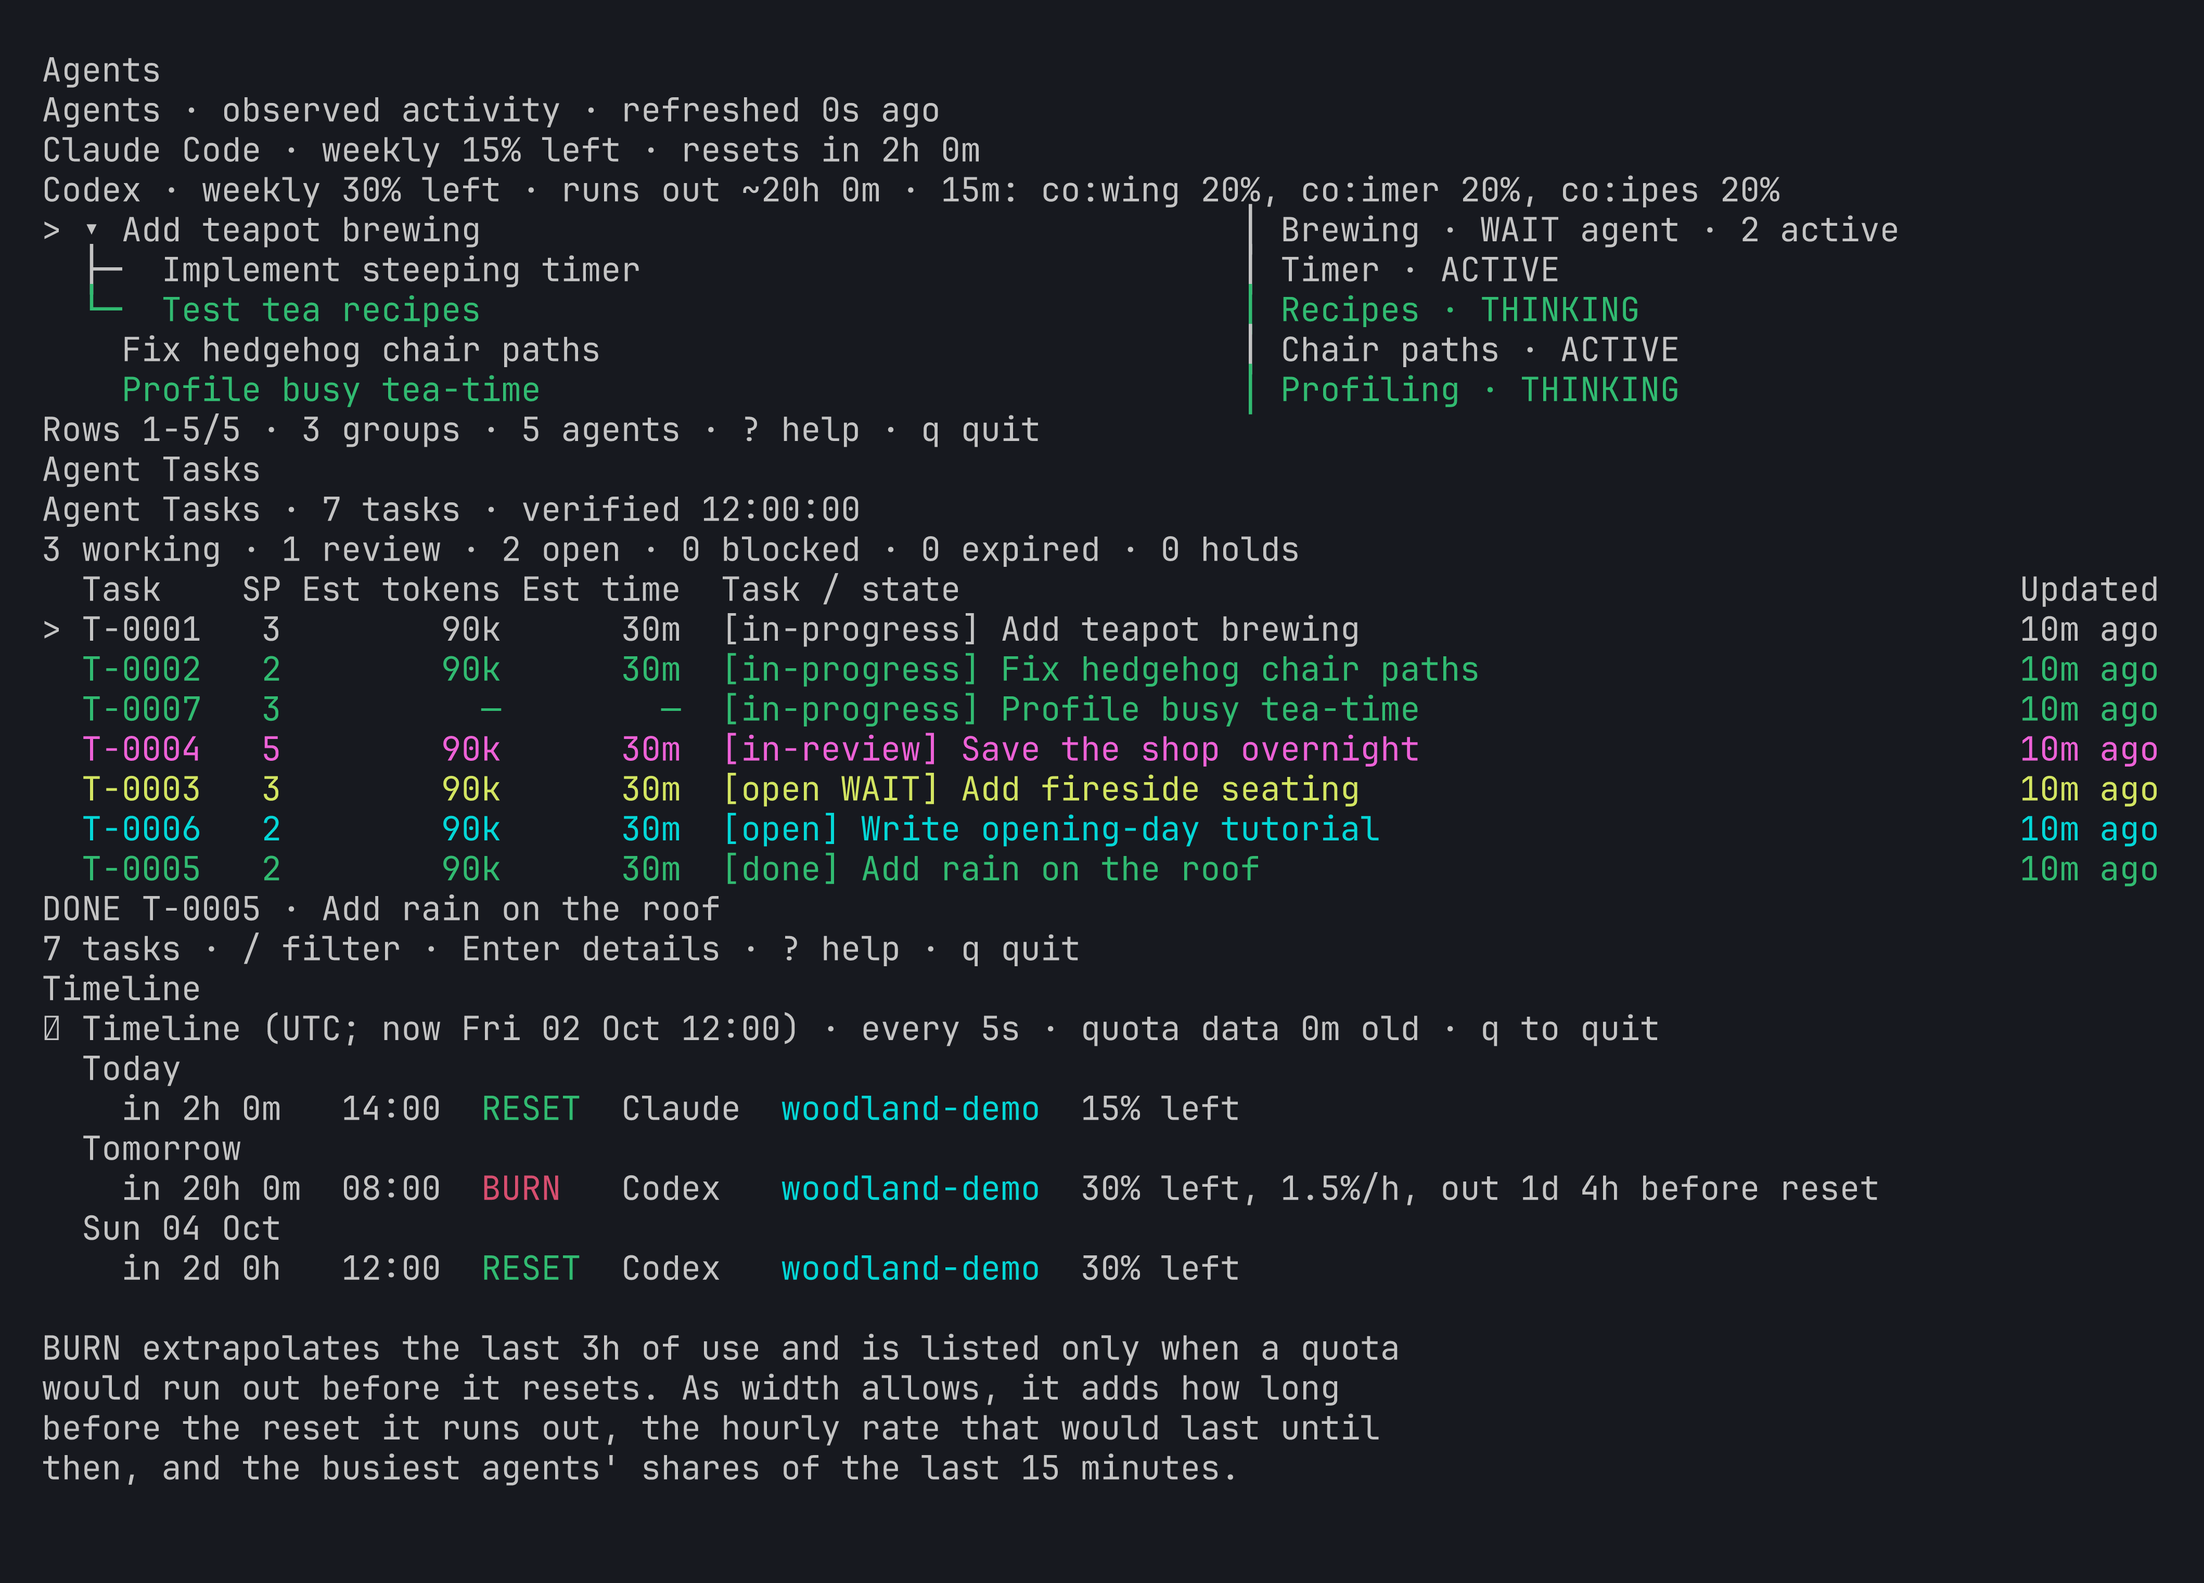
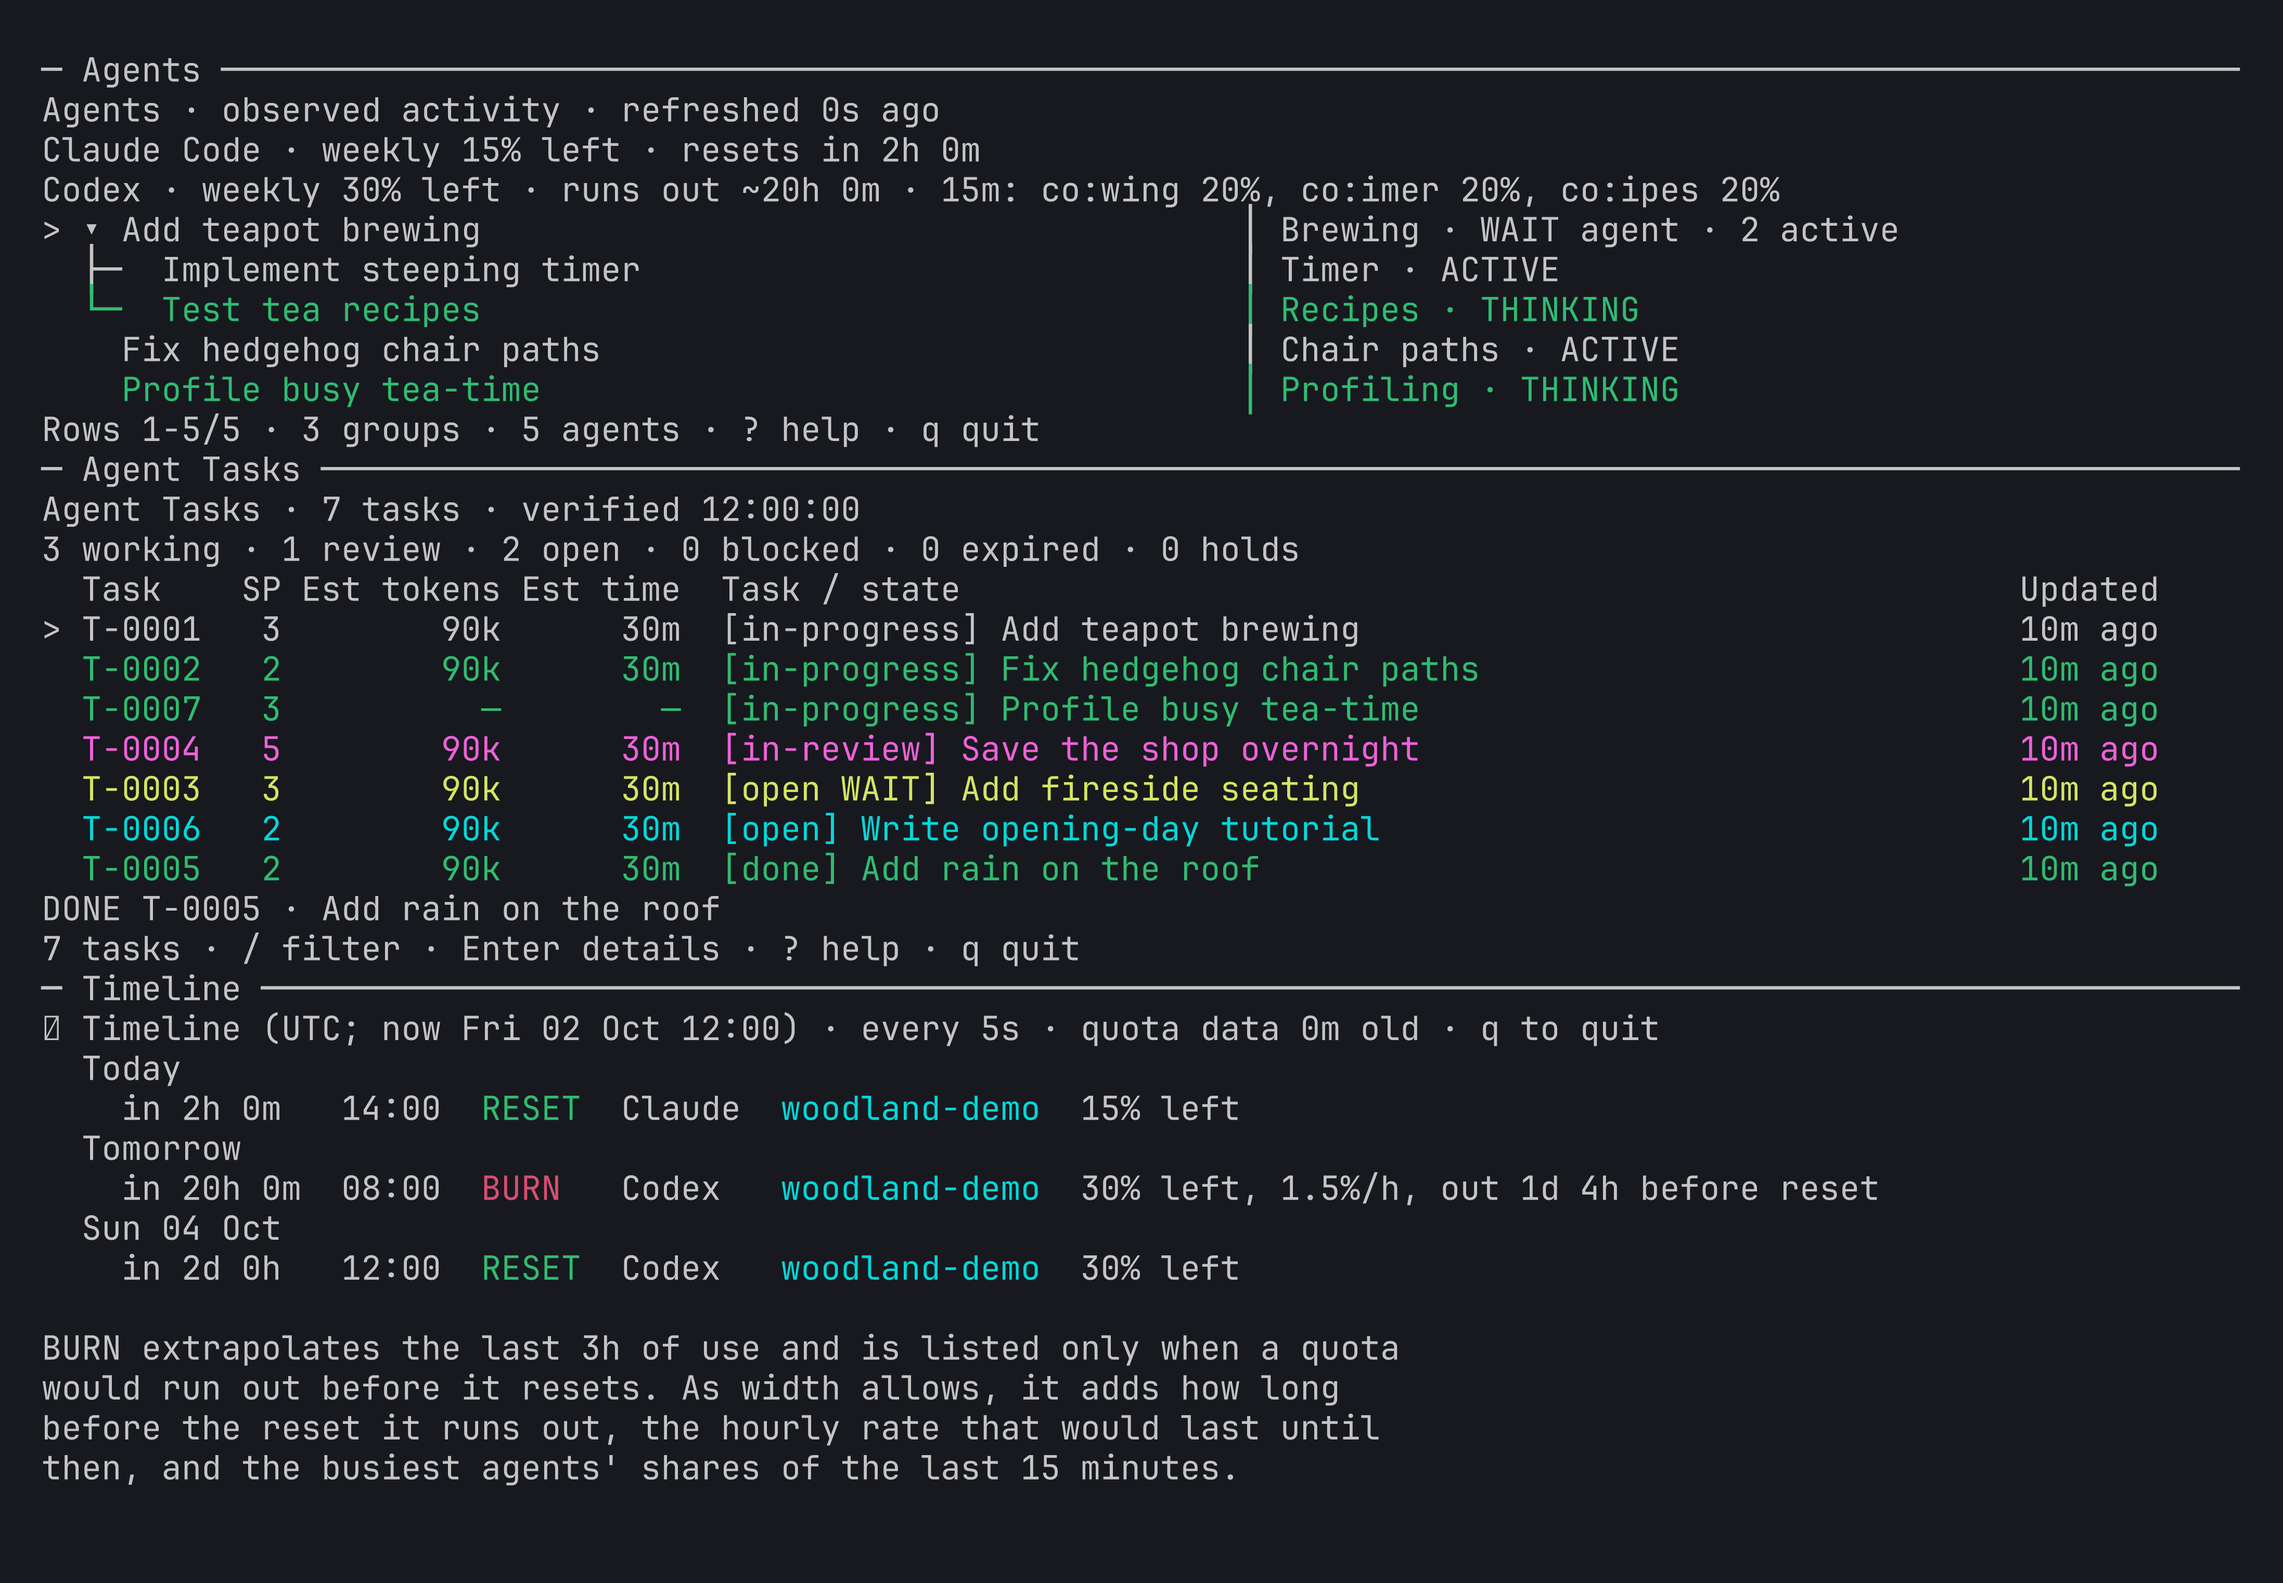
Separate dashboard apps with labelled pane dividers

diff --git a/docs/demo/run.py b/docs/demo/run.py
@@ -225,6 +225,15 @@ def main():
         env=env, stdout=subprocess.DEVNULL, stderr=subprocess.DEVNULL)
 
 
+def dashboard_capture(panes, width):
+  chunks = []
+  for title, text in panes:
+    label = '─ ' + title + ' '
+    border = label + '─' * max(0, width - len(label))
+    chunks.append('\x1b[1m' + border + '\x1b[0m\n' + text)
+  return ''.join(chunks).rstrip('\n') + '\n'
+
+
 def capture(run, output):
   output.mkdir(parents=True, exist_ok=True)
   panes = run('list-panes', '-t', 'demo:moss-and-mugs', '-F',
@@ -240,13 +249,14 @@ def capture(run, output):
     text = run('capture-pane', '-p', '-e', '-t', target).rstrip('\n') + '\n'
     (output / (name + '.ansi')).write_text(text)
     return text
-  # Capture production pane geometry and text; no independently drawn UI.
+  # Preserve pane text; labelled borders represent the tmux app boundaries.
+  width = int(run('display-message', '-p', '-t', agents, '#{pane_width}'))
   chunks = []
   for title in ('Agents', 'Agent Tasks', 'Timeline'):
-    chunks.append('\x1b[1m' + title + '\x1b[0m\n' +
+    chunks.append((title,
       save({'Agents':'agent-activity', 'Agent Tasks':'tasks',
-            'Timeline':'quota-timeline'}[title], mapping[title]))
-  (output / 'dashboard.ansi').write_text(''.join(chunks).rstrip('\n') + '\n')
+            'Timeline':'quota-timeline'}[title], mapping[title])))
+  (output / 'dashboard.ansi').write_text(dashboard_capture(chunks, width))
   # Real keys drive filtering, selection, and details.
   run('send-keys', '-t', tasks, '/', 'Save the shop overnight', 'Enter')
   time.sleep(.2)

diff --git a/tests/test_readme_demo.py b/tests/test_readme_demo.py
@@ -13,6 +13,20 @@ class DemoTest(unittest.TestCase):
     cls.demo = importlib.util.module_from_spec(SPEC)
     SPEC.loader.exec_module(cls.demo)
 
+  def test_dashboard_apps_have_full_width_labelled_boundaries(self):
+    text = self.demo.dashboard_capture([
+      ('Agents', 'agent body\n'),
+      ('Agent Tasks', 'task body\n'),
+      ('Timeline', 'timeline body\n')], 30)
+    lines = text.splitlines()
+    for title, index in [('Agents', 0), ('Agent Tasks', 2), ('Timeline', 4)]:
+      self.assertIn(title, lines[index])
+      plain = lines[index].replace('\x1b[1m', '').replace('\x1b[0m', '')
+      self.assertEqual(len(plain), 30)
+      self.assertTrue(plain.startswith('─'))
+      self.assertTrue(plain.endswith('─'))
+    self.assertEqual(lines[1::2], ['agent body', 'task body', 'timeline body'])
+
   def test_fixture_relationships_and_real_dependency_semantics(self):
     data = self.demo.fixture()
     self.assertEqual(len(data['tasks']), 7)

diff --git a/docs/demo/README.md b/docs/demo/README.md
@@ -37,7 +37,8 @@ pane sizes using the same code as normal operation.
 Capture method: `tmux capture-pane -p -e` retains production output and ANSI
 status colours. Only unused trailing empty rows are omitted; all content and
 ANSI attributes are retained. For the overview, the actual stacked pane captures are joined
-in pane order with their pane titles. Freeze rasterizes that output on an
+in pane order with full-width, labelled separators representing tmux's pane
+borders. Freeze rasterizes that output on an
 opaque dark background; this is a terminal-output rendering, not a desktop
 screenshot. Freeze's ANSI rendering does not reproduce inverse selection
 backgrounds; the production `>` selection marker remains visible. The spinner

diff --git a/tests/AGENTS.md b/tests/AGENTS.md
@@ -11,7 +11,7 @@ Dashboard tests cover default three-pane and optional personal layouts,
 summary opt-in, checkout and symlink paths with spaces, stale server PATH,
 narrow separate windows, unconfigured records and scoped failure cleanup.
 Integration cases use an isolated real tmux server, never provider calls.
-Demo checks cover authored fixture coherence, an isolated environment and
+Demo checks cover labelled app separators, fixture coherence, isolation and
 production renderer inputs; see [the capture recipe](../docs/demo/README.md)
 for real key-driven capture reproduction and its rendering limitations.
 
